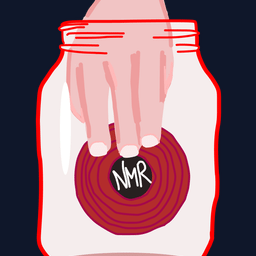
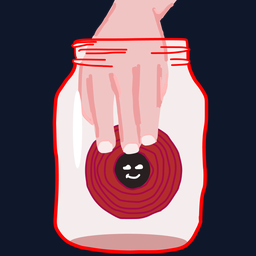
use cookie jar image as playlist cover

diff --git a/server/service/spotify-domain/playlist-settings.test.ts b/server/service/spotify-domain/playlist-settings.test.ts
@@ -8,6 +8,7 @@ const user = { userId: "me" } as User;
 function setup() {
   const saved: Array<[string, string, string]> = [];
   const renamed: Array<[string, string]> = [];
+  const coveredPlaylistIds: Array<string> = [];
   const playlists = {
     mine: { id: "mine", name: "Mine", owner: { id: "me" } },
     theirs: { id: "theirs", name: "Theirs", owner: { id: "someone-else" } },
@@ -29,10 +30,13 @@ function setup() {
       renamePlaylist: async (_token: string, id: string, name: string) => {
         renamed.push([id, name]);
       },
+      uploadPlaylistCover: async (_token: string, id: string) => {
+        coveredPlaylistIds.push(id);
+      },
     } as never,
   });
 
-  return { service, saved, renamed };
+  return { service, saved, renamed, coveredPlaylistIds };
 }
 
 test("only playlists the user owns can be selected or listed", async () => {
@@ -51,20 +55,23 @@ test("only playlists the user owns can be selected or listed", async () => {
   );
 });
 
-test("each role gets its default playlist created once and remembered", async () => {
-  const { service, saved } = setup();
-  const withReleases = { ...user, releasesPlaylistId: "existing" } as User;
+test("each role gets its default playlist created once, and only Cookie Jar gets a cover", async () => {
+  const { service, saved, coveredPlaylistIds } = setup();
+  const withTracker = { ...user, trackerPlaylistId: "existing" } as User;
 
-  assert.equal(
-    await service.ensurePlaylistId(withReleases, "token", "releases"),
-    "existing",
+  assert.deepEqual(
+    [
+      await service.ensurePlaylistId(withTracker, "token", "tracker"),
+      await service.ensurePlaylistId(user, "token", "releases"),
+      await service.ensurePlaylistId(user, "token", "tracker"),
+    ],
+    ["existing", "new-Cookie Jar", "new-Artist Tracker"],
   );
-  assert.equal(
-    await service.ensurePlaylistId(withReleases, "token", "tracker"),
-    "new-Artist Tracker",
-  );
-
-  assert.deepEqual(saved, [["me", "tracker", "new-Artist Tracker"]]);
+  assert.deepEqual(saved, [
+    ["me", "releases", "new-Cookie Jar"],
+    ["me", "tracker", "new-Artist Tracker"],
+  ]);
+  assert.deepEqual(coveredPlaylistIds, ["new-Cookie Jar"]);
 });
 
 test("each role renames its own playlist, and nothing is renamed before one is selected", async () => {

diff --git a/server/service/spotify-domain/playlist-settings.ts b/server/service/spotify-domain/playlist-settings.ts
@@ -8,16 +8,19 @@ import type { SpotifyRepository } from "@server/repository/spotify.repository";
 import type { SpotifyWebApi } from "@server/service/spotify-api";
 import { HttpException } from "@server/utils/exceptions";
 import { logger } from "@server/utils/logger";
+import { resolvePath } from "@server/utils/resolvePath";
+import { readFile } from "node:fs/promises";
 
 type Repository = ReturnType<typeof SpotifyRepository>;
 
 const DEFAULT_PLAYLISTS: Record<
   PlaylistRole,
-  { name: string; description: string }
+  { name: string; description: string; coverPath?: string }
 > = {
   releases: {
     name: "Cookie Jar",
     description: "A playlist of today's new releases.",
+    coverPath: resolvePath("server/assets/cookie-jar-cover.jpg"),
   },
   tracker: {
     name: "Artist Tracker",
@@ -79,13 +82,28 @@ export function createPlaylistSettingsService(deps: {
     const existingId = playlistIdFor(user, role);
     if (existingId) return existingId;
 
-    const playlist = await api.createPlaylist(token, DEFAULT_PLAYLISTS[role]);
+    const { coverPath, ...details } = DEFAULT_PLAYLISTS[role];
+    const playlist = await api.createPlaylist(token, details);
     await repository.setPlaylistId(user.userId, role, playlist.id);
     logger.info(
       `ensurePlaylistId:Created ${role} playlist for ${user.userId}:`,
       playlist.name,
     );
+    if (coverPath) await setCover(token, playlist.id, coverPath);
     return playlist.id;
+  }
+
+  // The cover is cosmetic, and users who logged in before ugc-image-upload was added lack the scope.
+  async function setCover(token: string, playlistId: string, path: string) {
+    try {
+      const jpeg = await readFile(path);
+      await api.uploadPlaylistCover(token, playlistId, jpeg.toString("base64"));
+    } catch (error) {
+      logger.warn("setCover:Could not upload playlist cover:", {
+        playlistId,
+        error,
+      });
+    }
   }
 
   async function renamePlaylist(

diff --git a/server/service/spotify-api/playlists.ts b/server/service/spotify-api/playlists.ts
@@ -3,9 +3,11 @@ import type { SavedTrackToPlaylistI } from "@model/spotify/playlist";
 import type { PlaylistTracksI } from "@model/spotify/tracks";
 import type { SpotifyUserProfile } from "@model/spotify/user";
 import type { SaveSongToPlaylistI } from "@server/service/types";
+import { withSpotifyRetries } from "@server/service/spotify-api/retry";
 import { SPOTIFY_API_URL } from "@server/utils/constants";
 import { getRequest, postRequest, putRequest } from "@server/utils/fetch";
 import { logger } from "@server/utils/logger";
+import axios from "axios";
 
 const PLAYLIST_TRACKS_PAGE_SIZE = 100;
 const USER_PLAYLISTS_PAGE_SIZE = 50;
@@ -113,6 +115,26 @@ export function createPlaylistsApi() {
       playlistId,
       name,
     });
+  }
+
+  async function uploadPlaylistCover(
+    token: string,
+    playlistId: string,
+    jpegBase64: string,
+  ) {
+    await withSpotifyRetries(() =>
+      axios.put(
+        `${SPOTIFY_API_URL}/playlists/${playlistId}/images`,
+        jpegBase64,
+        {
+          headers: {
+            Authorization: `Bearer ${token}`,
+            "Content-Type": "image/jpeg",
+          },
+        },
+      ),
+    );
+    logger.info("uploadPlaylistCover:Playlist cover uploaded:", playlistId);
   }
 
   async function fetchPlaylist(token: string, playlistId: string) {
@@ -228,6 +250,7 @@ export function createPlaylistsApi() {
     addTrackToPlaylistById,
     createPlaylist,
     renamePlaylist,
+    uploadPlaylistCover,
     fetchPlaylist,
     fetchUserPlaylists,
     fetchPlaylistTracks,

diff --git a/server/utils/auth.ts b/server/utils/auth.ts
@@ -2,7 +2,7 @@ import type { Request, Response } from "express";
 
 export function getAuthorizationUrl(
   REDIRECT_URI: string,
-  SPOTIFY_CLIENT_ID: string
+  SPOTIFY_CLIENT_ID: string,
 ) {
   const scopes = [
     "user-follow-read",
@@ -12,6 +12,7 @@ export function getAuthorizationUrl(
     "playlist-read-private",
     "playlist-modify-public",
     "playlist-modify-private",
+    "ugc-image-upload",
   ];
   if (!REDIRECT_URI) {
     throw new Error("REDIRECT_URI is not defined.");
@@ -22,7 +23,7 @@ export function getAuthorizationUrl(
 
 export function requireSpotifyToken(
   req: Request,
-  res: Response
+  res: Response,
 ): string | null {
   const token = req.headers.spotify_access_token as string;
   if (!token) {
